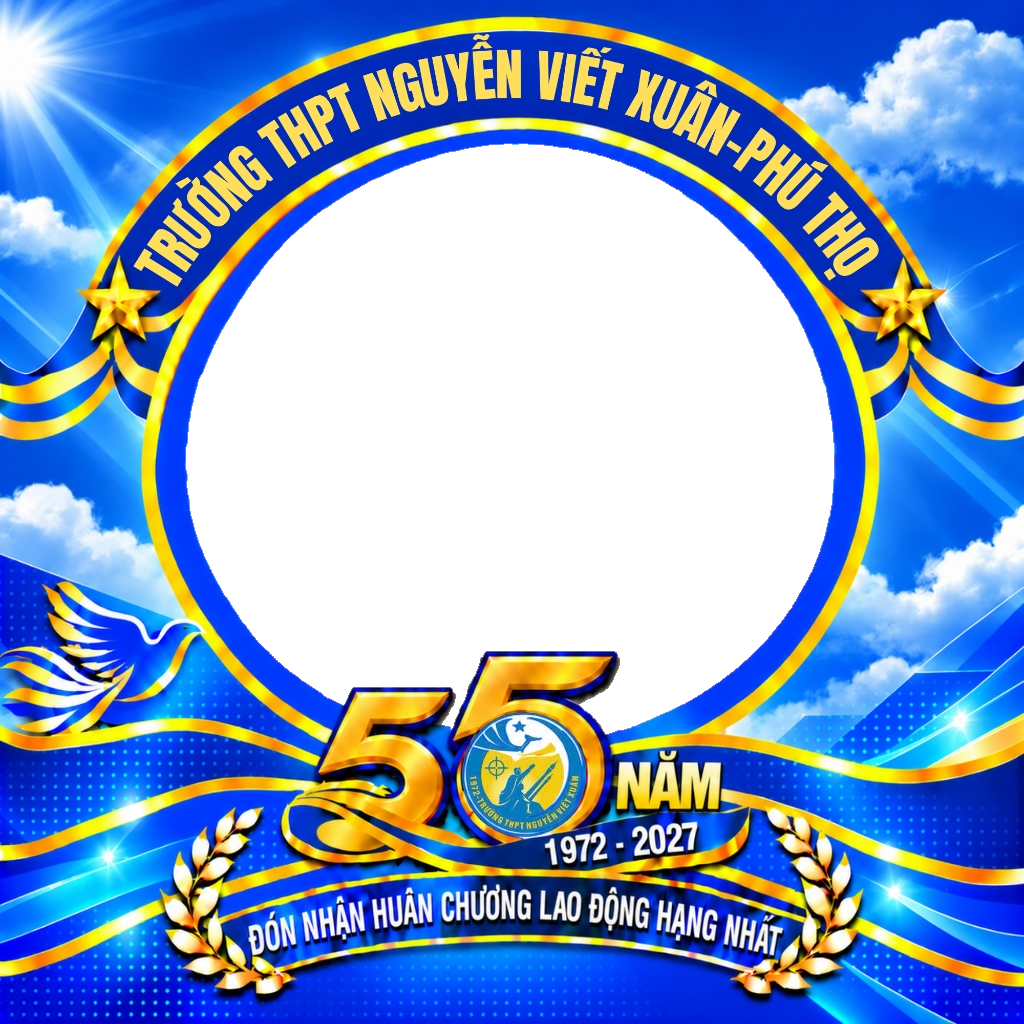
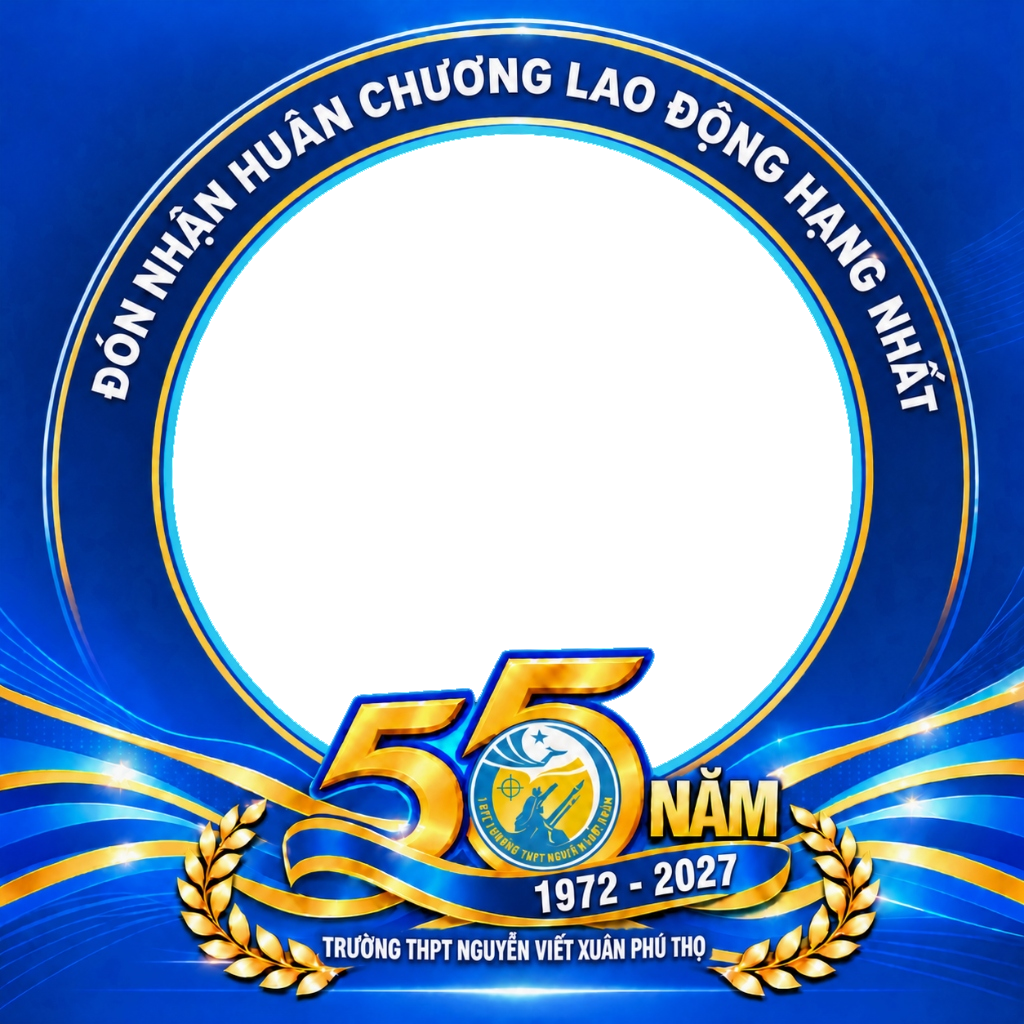
feat: update main frame to latest v8 design with wider circular cutout

diff --git a/src/app.js b/src/app.js
@@ -234,7 +234,7 @@ function initFrame() {
   img.onerror = () => {
     setStatus('Không thể tải khung ảnh mẫu. Vui lòng tải lại trang.', 'error');
   };
-  img.src = './assets/frame.png?v=7';
+  img.src = './assets/frame.png?v=8';
 }
 
 uploadBtn.addEventListener('click', () => photoInput.click());

diff --git a/src/compositor.js b/src/compositor.js
@@ -1,10 +1,10 @@
 export const FRAME_SPECS = Object.freeze({
   canvasSize: 1024,
-  centerX: 510,
-  centerY: 462,
-  holeRadiusX: 328,
-  holeRadiusY: 322,
-  clipRadius: 336,
+  centerX: 512,
+  centerY: 474,
+  holeRadiusX: 342,
+  holeRadiusY: 342,
+  clipRadius: 348,
   minZoom: 0.25,
   maxZoom: 4,
 });
